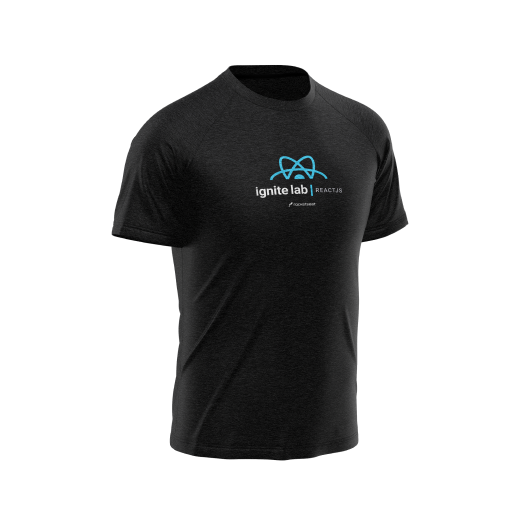
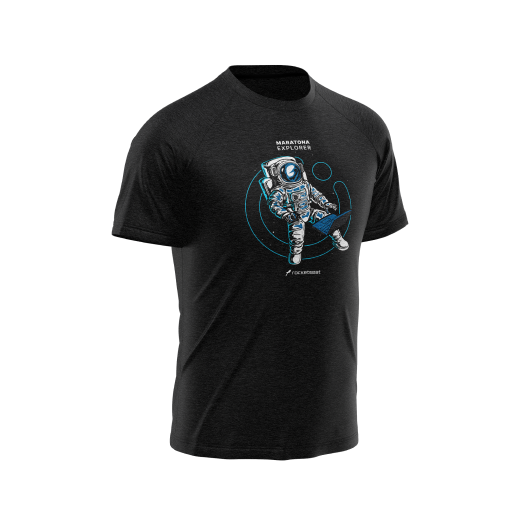
get products from stripe

Changed region(s): [[0.4923, 0.2462, 0.6769, 0.5538]]

diff --git a/src/pages/index.tsx b/src/pages/index.tsx
@@ -1,17 +1,23 @@
-import type { NextPage } from 'next'
+import type { GetServerSideProps, NextPage } from 'next'
 import Image from 'next/future/image'
-
-import { useKeenSlider } from 'keen-slider/react'
+import Stripe from 'stripe'
+import { stripe } from '../lib/stripe'
 
 import { HomeContainer, Product } from '../styles/pages/home'
 
-import camiseta1 from '../assets/1.png'
-import camiseta2 from '../assets/2.png'
-import camiseta3 from '../assets/3.png'
-
+import { useKeenSlider } from 'keen-slider/react'
 import 'keen-slider/keen-slider.min.css'
 
-const Home: NextPage = () => {
+interface HomeProps {
+  products: {
+    id: string;
+    name: string;
+    imageUrl: string;
+    price: number;
+  }[]
+}
+
+const Home: NextPage<HomeProps> = ({ products }) => {
   const [sliderRef] = useKeenSlider({
     slides: {
       perView: 3,
@@ -21,43 +27,42 @@ const Home: NextPage = () => {
 
   return (
     <HomeContainer ref={sliderRef} className='keen-slider'>
-      <Product className='keen-slider__slide'>
-        <Image src={camiseta1} width={520} height={480} alt='' />
+      {products.map(product => (
+        <Product key={product.id} className='keen-slider__slide'>
+          <Image src={product.imageUrl} width={520} height={480} alt='' />
 
-        <footer>
-          <strong>Camiseta X</strong>
-          <span>R$ 79,90</span>
-        </footer>
-      </Product>
-
-      <Product className='keen-slider__slide'>
-        <Image src={camiseta2} width={520} height={480} alt='' />
-
-        <footer>
-          <strong>Camiseta X</strong>
-          <span>R$ 79,90</span>
-        </footer>
-      </Product>
-
-      <Product className='keen-slider__slide'>
-        <Image src={camiseta3} width={520} height={480} alt='' />
-
-        <footer>
-          <strong>Camiseta X</strong>
-          <span>R$ 79,90</span>
-        </footer>
-      </Product>
-
-      <Product className='keen-slider__slide'>
-        <Image src={camiseta3} width={520} height={480} alt='' />
-
-        <footer>
-          <strong>Camiseta X</strong>
-          <span>R$ 79,90</span>
-        </footer>
-      </Product>
+          <footer>
+            <strong>{product.name}</strong>
+            <span>{product.price}</span>
+          </footer>
+        </Product>
+      ))}
     </HomeContainer>
   )
 }
 
 export default Home
+
+export const getServerSideProps: GetServerSideProps = async () => {
+  const response = await stripe.products.list({
+    expand: ['data.default_price']
+  })
+
+
+  const products = response.data.map(product => {
+    const price = product.default_price as Stripe.Price
+
+    return {
+      id: product.id,
+      name: product.name,
+      imageUrl: product.images[0],
+      price: price.unit_amount! / 100,
+    }
+  })
+
+  return {
+    props: {
+      products
+    }
+  }
+}

diff --git a/src/lib/stripe.ts b/src/lib/stripe.ts
@@ -1,0 +1,8 @@
+import Stripe from 'stripe'
+
+export const stripe = new Stripe(process.env.STRIPE_SECRET_KEY, {
+  apiVersion: '2022-08-01',
+  appInfo: {
+    name: 'Ignite Shop',
+  }
+})

diff --git a/next.config.js b/next.config.js
@@ -2,6 +2,12 @@
 const nextConfig = {
   reactStrictMode: true,
   swcMinify: true,
+
+  images: {
+    domains: [
+      'files.stripe.com'
+    ]
+  }
 }
 
 module.exports = nextConfig
